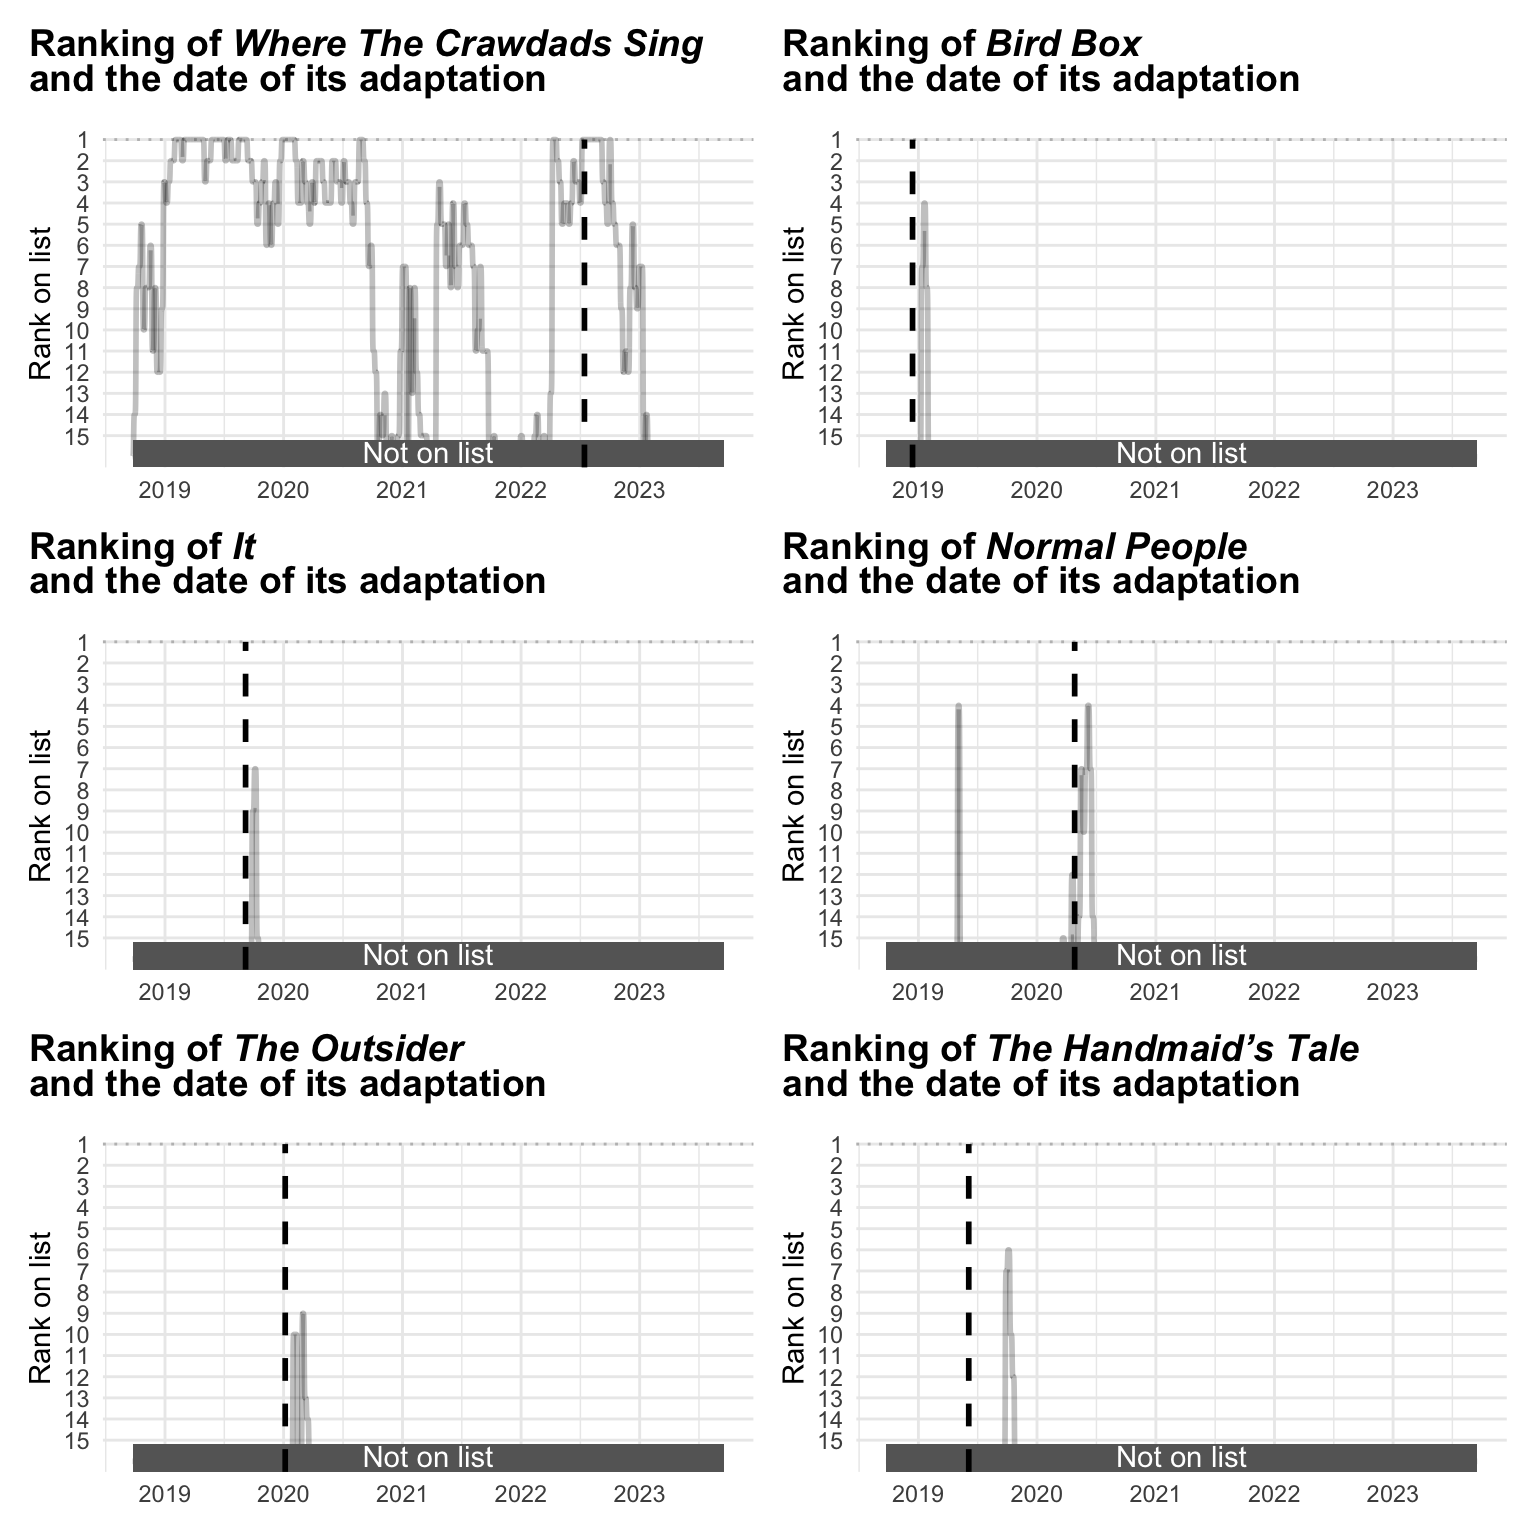
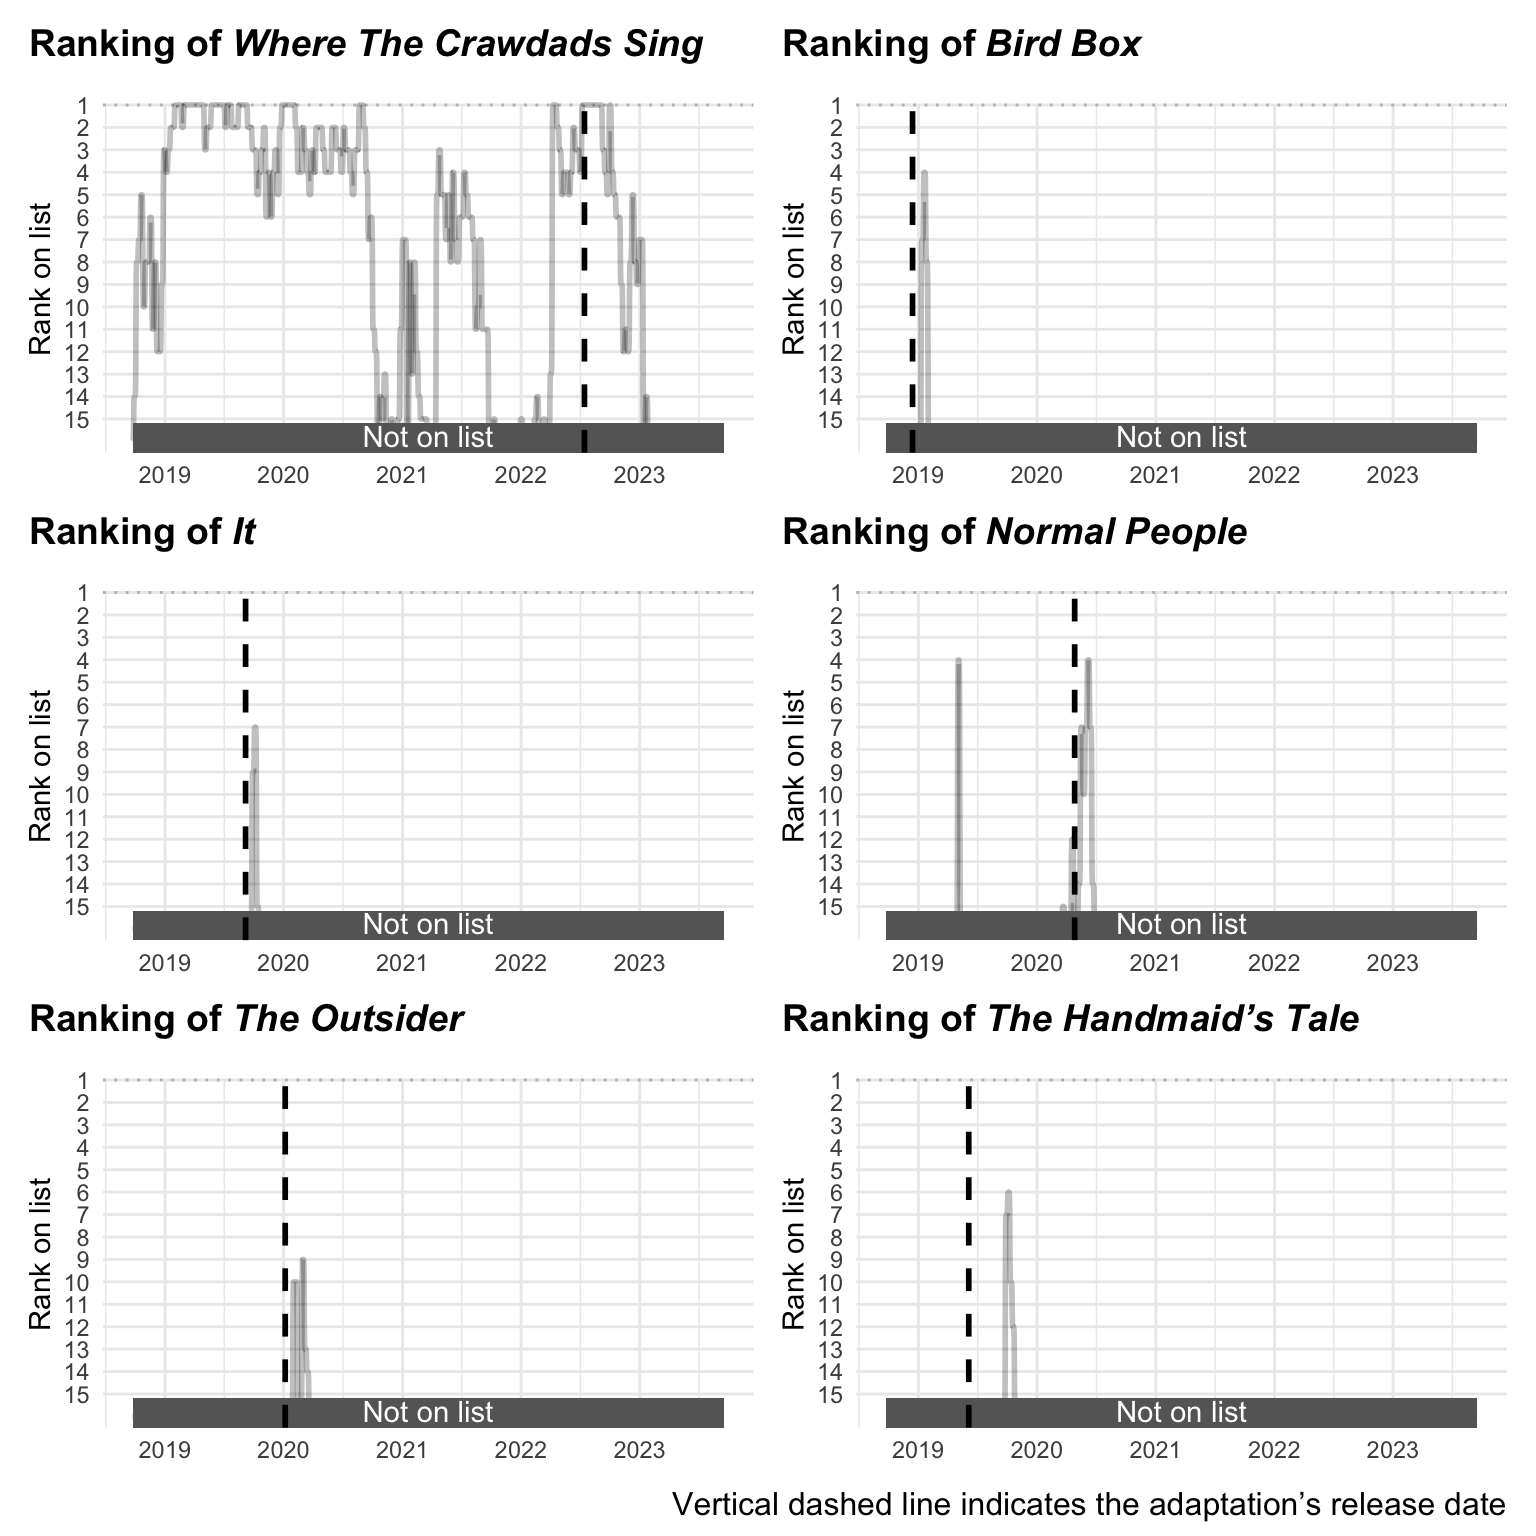
add annotation to nyt api post

Changed region(s): [[0.0, 0.0312, 0.9688, 1.0]]

diff --git a/public/en/blog/analysing-the-nyt-best-sellers-list-using-an-api/index.html b/public/en/blog/analysing-the-nyt-best-sellers-list-using-an-api/index.html
@@ -345,11 +345,11 @@ $ list_publication_date &lt;date&gt; 2018-09-23, 2018-09-23, 2018-09-23, 2018-09
 </span></span></code></pre></div></details>
 <img src="index.markdown_strict_files/figure-markdown_strict/plot-trajectory-1.png" width="768" />
 <p>That is quite an impressive trajectory. There are a few moments where the book leaves the Best Sellers list, but it had a spot on the list every year from 2018 when the book was published to 2023.</p>
-<p>The jump in the plot above that happens in 2022 seemed very remarkable, jumping from spot 13 to 1 within a week. I was wondering if that had anything to do with the release of the movie adaptation. So let&rsquo;s have a look. The movie was released on July 15th, 2022. Let&rsquo;s also look at a few other books I know were on the Best Sellers list that have gotten an adaptation. This is just anecdotal and hand-picked evidence of course so needs to be taken with a grain of salt. Perhaps another time I&rsquo;ll find a more systematic way of testing this. In addition to <a href="https://www.imdb.com/title/tt9411972/"><em>Where The Crawdads Sing</em></a>, I&rsquo;ve picked two other movies and three TV series. The other two movies are <a href="https://www.imdb.com/title/tt2737304/"><em>Bird Box</em></a> released in late 2018 and <a href="https://www.imdb.com/title/tt7349950/"><em>It Chapter Two</em></a>, the second installment of the adaptation of <em>It</em> by Stephen King. For the TV series I&rsquo;ll look at the wonderful <a href="https://www.imdb.com/title/tt9059760/"><em>Normal People</em></a> based on the novel by Sally Rooney (who also has writing credits on the series!), initially released in 2020, <a href="https://www.imdb.com/title/tt8550800/"><em>The Outsider</em></a> also based on a book by Stephen King, and <a href="https://www.imdb.com/title/tt5834204/"><em>The Handmaid&rsquo;s Tale</em></a> based on the book by Margaret Atwood.</p>
+<p>The jump in the plot above that happens in 2022 seemed very remarkable, jumping from spot 13 to 1 within a week. I was wondering if that had anything to do with the release of the movie adaptation. So let&rsquo;s have a look. The movie was released on July 15th, 2022. Let&rsquo;s also look at a few other books I know were on the Best Sellers list that have gotten an adaptation. This is just anecdotal and hand-picked evidence of course so needs to be taken with a grain of salt. Perhaps another time I&rsquo;ll find a more systematic way of testing this. In addition to <a href="https://www.imdb.com/title/tt9411972/"><em>Where The Crawdads Sing</em></a>, I&rsquo;ve picked two other movies and three TV series. The other two movies are <a href="https://www.imdb.com/title/tt2737304/"><em>Bird Box</em></a> released in late 2018 and <a href="https://www.imdb.com/title/tt7349950/"><em>It Chapter Two</em></a>, the second installment of the adaptation of <em>It</em> by Stephen King. For the TV series I&rsquo;ll look at the wonderful <a href="https://www.imdb.com/title/tt9059760/"><em>Normal People</em></a> based on the novel by Sally Rooney (who also has writing credits on the series!), initially released in 2020, <a href="https://www.imdb.com/title/tt8550800/"><em>The Outsider</em></a> also based on a book by Stephen King, and <a href="https://www.imdb.com/title/tt5834204/"><em>The Handmaid&rsquo;s Tale</em></a> based on the book by Margaret Atwood. In the plots below the vertical dashed line indicates the release date of the adaptation.</p>
 <details>
 <summary>Code for the plot below</summary>
 <div class="highlight"><pre tabindex="0" class="chroma"><code class="language-r" data-lang="r"><span class="line"><span class="cl"><span class="n">titles_w_adaptation</span> <span class="o">&lt;-</span> <span class="nf">tribble</span><span class="p">(</span>
-</span></span><span class="line"><span class="cl">  <span class="o">~</span><span class="n">title</span><span class="p">,</span> <span class="o">~</span><span class="n">release_date</span><span class="p">,</span>
+</span></span><span class="line"><span class="cl">  <span class="o">~</span><span class="n">title</span><span class="p">,</span> <span class="o">~</span><span class="n">screen_release_date</span><span class="p">,</span>
 </span></span><span class="line"><span class="cl">  <span class="s">&#34;Where The Crawdads Sing&#34;</span><span class="p">,</span> <span class="s">&#34;2022-07-15&#34;</span><span class="p">,</span>
 </span></span><span class="line"><span class="cl">  <span class="s">&#34;Bird Box&#34;</span><span class="p">,</span> <span class="s">&#34;2018-12-14&#34;</span><span class="p">,</span>
 </span></span><span class="line"><span class="cl">  <span class="s">&#34;It&#34;</span><span class="p">,</span> <span class="s">&#34;2019-09-06&#34;</span><span class="p">,</span>
@@ -379,11 +379,10 @@ $ list_publication_date &lt;date&gt; 2018-09-23, 2018-09-23, 2018-09-23, 2018-09
 </span></span><span class="line"><span class="cl">                  <span class="n">ymin</span> <span class="o">=</span> <span class="m">15.2</span><span class="p">,</span> <span class="n">ymax</span> <span class="o">=</span> <span class="kc">Inf</span><span class="p">),</span> <span class="n">fill</span> <span class="o">=</span> <span class="s">&#34;grey40&#34;</span><span class="p">,</span> <span class="n">show.legend</span> <span class="o">=</span> <span class="kc">FALSE</span><span class="p">)</span> <span class="o">+</span>
 </span></span><span class="line"><span class="cl">    <span class="nf">geom_text</span><span class="p">(</span><span class="n">data</span> <span class="o">=</span> <span class="nf">tibble</span><span class="p">(),</span> <span class="nf">aes</span><span class="p">(</span><span class="n">x</span> <span class="o">=</span> <span class="nf">mean</span><span class="p">(</span><span class="n">data</span><span class="o">$</span><span class="n">list_publication_date</span><span class="p">),</span> <span class="n">y</span> <span class="o">=</span> <span class="m">15.75</span><span class="p">,</span>
 </span></span><span class="line"><span class="cl">                                   <span class="n">label</span> <span class="o">=</span> <span class="s">&#34;Not on list&#34;</span><span class="p">),</span> <span class="n">color</span> <span class="o">=</span> <span class="s">&#34;white&#34;</span><span class="p">)</span> <span class="o">+</span>
-</span></span><span class="line"><span class="cl">    <span class="nf">geom_vline</span><span class="p">(</span><span class="nf">aes</span><span class="p">(</span><span class="n">xintercept</span> <span class="o">=</span> <span class="nf">as.Date</span><span class="p">(</span><span class="n">release_date</span><span class="p">)),</span>
+</span></span><span class="line"><span class="cl">    <span class="nf">geom_vline</span><span class="p">(</span><span class="nf">aes</span><span class="p">(</span><span class="n">xintercept</span> <span class="o">=</span> <span class="nf">as.Date</span><span class="p">(</span><span class="n">screen_release_date</span><span class="p">)),</span>
 </span></span><span class="line"><span class="cl">               <span class="n">linewidth</span> <span class="o">=</span> <span class="m">1</span><span class="p">,</span> <span class="n">linetype</span> <span class="o">=</span> <span class="s">&#34;dashed&#34;</span><span class="p">)</span> <span class="o">+</span>
 </span></span><span class="line"><span class="cl">    <span class="nf">labs</span><span class="p">(</span>
-</span></span><span class="line"><span class="cl">      <span class="n">title</span> <span class="o">=</span> <span class="nf">str_glue</span><span class="p">(</span><span class="s">&#34;Ranking of _{book_title}_&lt;br&gt;
-</span></span></span><span class="line"><span class="cl"><span class="s">                       and the date of its adaptation&#34;</span><span class="p">),</span>
+</span></span><span class="line"><span class="cl">      <span class="n">title</span> <span class="o">=</span> <span class="nf">str_glue</span><span class="p">(</span><span class="s">&#34;Ranking of _{book_title}_&#34;</span><span class="p">),</span>
 </span></span><span class="line"><span class="cl">      <span class="n">x</span> <span class="o">=</span> <span class="kc">NULL</span><span class="p">,</span>
 </span></span><span class="line"><span class="cl">      <span class="n">y</span> <span class="o">=</span> <span class="s">&#34;Rank on list&#34;</span><span class="p">,</span>
 </span></span><span class="line"><span class="cl">      <span class="n">color</span> <span class="o">=</span> <span class="kc">NULL</span>
@@ -404,7 +403,13 @@ $ list_publication_date &lt;date&gt; 2018-09-23, 2018-09-23, 2018-09-23, 2018-09
 </span></span><span class="line"><span class="cl">  
 </span></span><span class="line"><span class="cl"><span class="p">}</span>
 </span></span><span class="line"><span class="cl">
-</span></span><span class="line"><span class="cl"><span class="p">(</span><span class="n">rplot[[1]]</span> <span class="o">+</span> <span class="n">rplot[[2]]</span><span class="p">)</span> <span class="o">/</span> <span class="p">(</span><span class="n">rplot[[3]]</span> <span class="o">+</span> <span class="n">rplot[[4]]</span><span class="p">)</span> <span class="o">/</span> <span class="p">(</span><span class="n">rplot[[5]]</span> <span class="o">+</span> <span class="n">rplot[[6]]</span><span class="p">)</span>
+</span></span><span class="line"><span class="cl"><span class="p">(</span><span class="n">rplot[[1]]</span> <span class="o">+</span> <span class="n">rplot[[2]]</span><span class="p">)</span> <span class="o">/</span> 
+</span></span><span class="line"><span class="cl">  <span class="p">(</span><span class="n">rplot[[3]]</span> <span class="o">+</span> <span class="n">rplot[[4]]</span><span class="p">)</span> <span class="o">/</span> 
+</span></span><span class="line"><span class="cl">  <span class="p">(</span><span class="n">rplot[[5]]</span> <span class="o">+</span> <span class="n">rplot[[6]]</span><span class="p">)</span> <span class="o">+</span> 
+</span></span><span class="line"><span class="cl">  <span class="nf">plot_annotation</span><span class="p">(</span>
+</span></span><span class="line"><span class="cl">    <span class="n">caption</span> <span class="o">=</span> <span class="s">&#34;Vertical dashed line indicates the adaptation&#39;s release date&#34;</span>
+</span></span><span class="line"><span class="cl">  <span class="p">)</span> <span class="o">&amp;</span>
+</span></span><span class="line"><span class="cl">  <span class="nf">theme</span><span class="p">(</span><span class="n">plot.caption</span> <span class="o">=</span> <span class="nf">element_markdown</span><span class="p">(</span><span class="n">size</span> <span class="o">=</span> <span class="m">12</span><span class="p">))</span>
 </span></span></code></pre></div></details>
 <img src="index.markdown_strict_files/figure-markdown_strict/plot-trajectory-adaptations-1.png" width="768" />
 <p>It seems that for <em>Where The Crawdads Sing</em>, the movie release ensured that the book remained at number 1 on the Best Sellers list for a while, even though the book was already doing very well in the list before the movie release. For both <em>Bird Box</em> and <em>It</em> their movie releases seemed to have caused a boost in sales of the book that made them reappear in the list for a short time. I&rsquo;d guess the fact that the book <em>Where The Crawdads Sing</em> was already very popular prior to the movie release caused a boost in popularity that lingered longer. Both <em>Bird Box</em> and <em>It</em> had a brief reappearance in the list following their movie release, but I&rsquo;d guess that a publisher cannot rely on a successful movie release (like <em>Bird Box</em> or <em>It</em>) to boost the sales of a book. It cannot compensate for the success of an already popular and well-received book like <em>Where The Crawdads Sing</em>.</p>

diff --git a/content/blog/2023-nyt-books-api/index.md b/content/blog/2023-nyt-books-api/index.md
@@ -321,14 +321,14 @@ data |>
 
 That is quite an impressive trajectory. There are a few moments where the book leaves the Best Sellers list, but it had a spot on the list every year from 2018 when the book was published to 2023.
 
-The jump in the plot above that happens in 2022 seemed very remarkable, jumping from spot 13 to 1 within a week. I was wondering if that had anything to do with the release of the movie adaptation. So let's have a look. The movie was released on July 15th, 2022. Let's also look at a few other books I know were on the Best Sellers list that have gotten an adaptation. This is just anecdotal and hand-picked evidence of course so needs to be taken with a grain of salt. Perhaps another time I'll find a more systematic way of testing this. In addition to [*Where The Crawdads Sing*](https://www.imdb.com/title/tt9411972/), I've picked two other movies and three TV series. The other two movies are [*Bird Box*](https://www.imdb.com/title/tt2737304/) released in late 2018 and [*It Chapter Two*](https://www.imdb.com/title/tt7349950/), the second installment of the adaptation of *It* by Stephen King. For the TV series I'll look at the wonderful [*Normal People*](https://www.imdb.com/title/tt9059760/) based on the novel by Sally Rooney (who also has writing credits on the series!), initially released in 2020, [*The Outsider*](https://www.imdb.com/title/tt8550800/) also based on a book by Stephen King, and [*The Handmaid's Tale*](https://www.imdb.com/title/tt5834204/) based on the book by Margaret Atwood.
+The jump in the plot above that happens in 2022 seemed very remarkable, jumping from spot 13 to 1 within a week. I was wondering if that had anything to do with the release of the movie adaptation. So let's have a look. The movie was released on July 15th, 2022. Let's also look at a few other books I know were on the Best Sellers list that have gotten an adaptation. This is just anecdotal and hand-picked evidence of course so needs to be taken with a grain of salt. Perhaps another time I'll find a more systematic way of testing this. In addition to [*Where The Crawdads Sing*](https://www.imdb.com/title/tt9411972/), I've picked two other movies and three TV series. The other two movies are [*Bird Box*](https://www.imdb.com/title/tt2737304/) released in late 2018 and [*It Chapter Two*](https://www.imdb.com/title/tt7349950/), the second installment of the adaptation of *It* by Stephen King. For the TV series I'll look at the wonderful [*Normal People*](https://www.imdb.com/title/tt9059760/) based on the novel by Sally Rooney (who also has writing credits on the series!), initially released in 2020, [*The Outsider*](https://www.imdb.com/title/tt8550800/) also based on a book by Stephen King, and [*The Handmaid's Tale*](https://www.imdb.com/title/tt5834204/) based on the book by Margaret Atwood. In the plots below the vertical dashed line indicates the release date of the adaptation.
 
 <details>
 <summary>Code for the plot below</summary>
 
 ``` r
 titles_w_adaptation <- tribble(
-  ~title, ~release_date,
+  ~title, ~screen_release_date,
   "Where The Crawdads Sing", "2022-07-15",
   "Bird Box", "2018-12-14",
   "It", "2019-09-06",
@@ -358,11 +358,10 @@ for (i in seq(nrow(titles_w_adaptation))) {
                   ymin = 15.2, ymax = Inf), fill = "grey40", show.legend = FALSE) +
     geom_text(data = tibble(), aes(x = mean(data$list_publication_date), y = 15.75,
                                    label = "Not on list"), color = "white") +
-    geom_vline(aes(xintercept = as.Date(release_date)),
+    geom_vline(aes(xintercept = as.Date(screen_release_date)),
                linewidth = 1, linetype = "dashed") +
     labs(
-      title = str_glue("Ranking of _{book_title}_<br>
-                       and the date of its adaptation"),
+      title = str_glue("Ranking of _{book_title}_"),
       x = NULL,
       y = "Rank on list",
       color = NULL
@@ -383,7 +382,13 @@ for (i in seq(nrow(titles_w_adaptation))) {
   
 }
 
-(rplot[[1]] + rplot[[2]]) / (rplot[[3]] + rplot[[4]]) / (rplot[[5]] + rplot[[6]])
+(rplot[[1]] + rplot[[2]]) / 
+  (rplot[[3]] + rplot[[4]]) / 
+  (rplot[[5]] + rplot[[6]]) + 
+  plot_annotation(
+    caption = "Vertical dashed line indicates the adaptation's release date"
+  ) &
+  theme(plot.caption = element_markdown(size = 12))
 ```
 
 </details>
